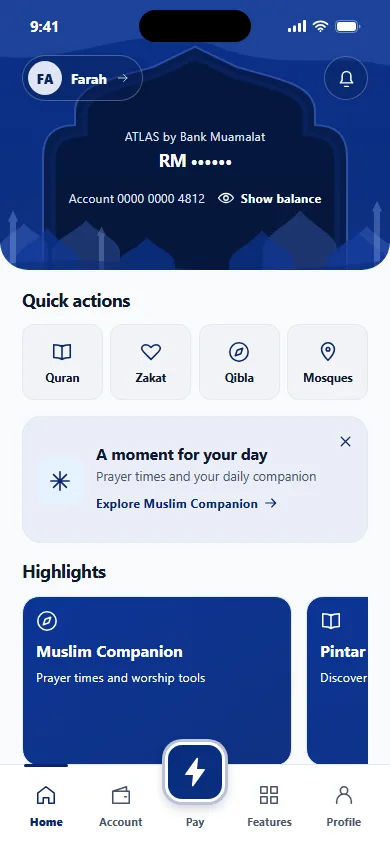
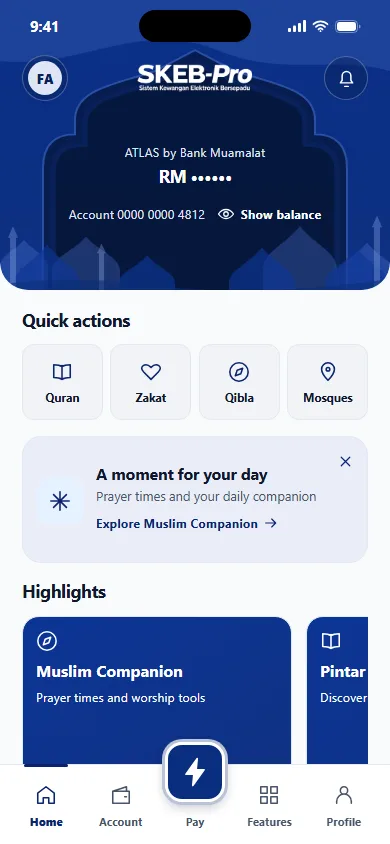
Round4 - mainpage polish, prodile improve

diff --git a/src/App.css b/src/App.css
@@ -1192,7 +1192,8 @@ label.access-option { min-height: 52px; justify-content: flex-start; }
   box-shadow: 0 12px 30px #081d4e33;
 }
 .password-signin input { min-height: 52px; background: #f3f6fc; }
-.password-forgot { align-self: flex-end; min-height: 44px; margin-top: -10px; }
+.password-links { display: flex; align-items: center; justify-content: space-between; gap: 12px; margin-top: -10px; }
+.password-forgot { min-height: 44px; }
 .password-demo {
   display: grid;
   gap: 7px;
@@ -1205,7 +1206,7 @@ label.access-option { min-height: 52px; justify-content: flex-start; }
 .password-demo dl { display: grid; grid-template-columns: auto minmax(0,1fr); gap: 4px 12px; font-size: .78rem; }
 .password-demo dt { color: var(--muted); }
 .password-demo dd { font-weight: 650; overflow-wrap: anywhere; }
-.password-sample { justify-self: start; min-height: 44px; }
+.password-sample { min-height: 44px; }
 .password-signin .access-signin-link { padding-top: 4px; border-top: 1px solid var(--line); }
 .password-signin .registration-form-card .primary { margin-top: 0; }
 .password-signin .registration-form-card .primary:active:not(:disabled) { background: #092055; }
@@ -1519,9 +1520,20 @@ label.access-option { min-height: 52px; justify-content: flex-start; }
   color: #092159;
   outline: 0;
 }
+.home-logo {
+  position: absolute;
+  left: 50%;
+  top: 50%;
+  height: 28px;
+  width: auto;
+  transform: translate(-50%, -50%);
+  filter: brightness(0) invert(1);
+  pointer-events: none;
+}
 .home-profile-name { font-weight: 750; }
 .home-profile > svg { opacity: .78; }
-.home-toolbar.compact .home-profile { border-radius: 50%; padding: 4px; min-width: 46px; justify-content: center; }
+.home-toolbar:not(.compact) .home-profile > svg { display: none; }
+.home-toolbar .home-profile { border-radius: 50%; padding: 4px; min-width: 46px; justify-content: center; }
 .home-notifications {
   border-radius: 50%;
   border: 1px solid #ffffff45;
@@ -1585,8 +1597,8 @@ label.access-option { min-height: 52px; justify-content: flex-start; }
 .home-update-copy p { font-size: .82rem; color: white; }
 @media (max-width: 350px) { .home-toolbar { padding-inline: 15px; } }
 
-.app[data-screen="home"] .hero { min-height: calc(270px + env(safe-area-inset-top)); }
-.app[data-screen="home"] .hero-content { margin-top: 14px; }
+.app[data-screen="home"] .hero { min-height: calc(290px + env(safe-area-inset-top)); }
+.app[data-screen="home"] .hero-content { margin-top: 30px; }
 .home-quick { gap: 12px; }
 .home-quick .quick-actions {
   gap: clamp(6px, 2vw, 12px);
@@ -2198,3 +2210,30 @@ label.access-option { min-height: 52px; justify-content: flex-start; }
 .insight-detail-category-amount { text-align: end; font-variant-numeric: tabular-nums; }
 .eskeb-panel { justify-items: center; text-align: center; }
 .eskeb-logo { display: block; width: min(230px, 80%); height: auto; margin-bottom: 4px; }
+
+/* Profile: SKEB-Pro navy header band behind the status bar, title and account card. */
+.app[data-screen="profile"] { --profile-band: linear-gradient(90deg,#0a2e81,#0f3181); }
+.app[data-screen="profile"] .status-spacer { visibility: visible; background: var(--profile-band); color: transparent; }
+.app[data-screen="profile"] > .screen-status.status-fixed { color: #fff; }
+.app[data-screen="profile"][data-scrolled] > .screen-status.status-fixed { background: #0a2e81; }
+.app[data-screen="profile"] .page-header.hub { background: var(--profile-band); color: #fff; padding-bottom: 6px; }
+.app[data-screen="profile"] main { padding-top: 0; }
+.app[data-screen="profile"] .profile-menu .profile-card {
+  margin: 0 -21px 0;
+  border-radius: 0;
+  padding: 8px 21px 38px;
+  position: relative;
+  background: var(--profile-band);
+  color: #fff;
+}
+.app[data-screen="profile"] .profile-menu .profile-card::after {
+  content: "";
+  position: absolute;
+  left: 0; right: 0; bottom: -1px;
+  height: 26px;
+  background: var(--bg);
+  border-radius: 26px 26px 0 0;
+}
+.app[data-screen="profile"] .profile-card p { color: #c9d6f5; }
+.app[data-screen="profile"] .profile-card .avatar,
+.app.dark[data-screen="profile"] .profile-card .avatar { background: #dee5f6; color: #092159; }

diff --git a/src/AccessFlow.jsx b/src/AccessFlow.jsx
@@ -638,20 +638,15 @@ function PasswordStep({mode,username:initialUsername='',stored,locked,logo,onBac
          <button type="button" className="icon-button" aria-label={visible?'Hide password':'Show password'} aria-controls="masrif-password" onClick={()=>setVisible(value=>!value)}><Icon name={visible?'eyeOff':'eye'} size={20}/></button>
        </div>
      </div>
-     {onForgot&&<button type="button" className="text-button password-forgot" onClick={onForgot}>Forgot password?</button>}
+     {((signin&&!stored)||onForgot)&&<div className="password-links">
+       {signin&&!stored?<button type="button" className="text-button password-sample" onClick={()=>{setUsername(sampleCredentials.username);setPassword(sampleCredentials.password);setError('')}}>Use sample credentials</button>:<span/>}
+       {onForgot&&<button type="button" className="text-button password-forgot" onClick={onForgot}>Forgot password?</button>}
+     </div>}
      {!signin&&<><small>Use at least 15 characters.</small>
        <label>Confirm password<input type="password" autoComplete="new-password" maxLength={128} required
          value={confirmation} onChange={event=>{setConfirmation(event.target.value);setError('')}}/></label></>}
      {locked&&<p className="notice passcode-error" role="alert">Your demo account is locked. Reset your password to continue.</p>}
      {error&&<p className="notice passcode-error" role="alert">{error}</p>}
-     {signin&&!stored&&<section className="password-demo" aria-label="Demo sign-in details">
-       <h2>Demo account</h2>
-       <dl>
-         <dt>Username</dt><dd>{sampleCredentials.username}</dd>
-         <dt>Password</dt><dd>{sampleCredentials.password}</dd>
-       </dl>
-       <button type="button" className="text-button password-sample" onClick={()=>{setUsername(sampleCredentials.username);setPassword(sampleCredentials.password);setError('')}}>Use sample credentials</button>
-     </section>}
      {signin&&<Button type="submit" disabled={busy||locked}>{busy?'Please wait…':submitLabel}</Button>}
      {onRegister&&<RegisterPrompt onRegister={onRegister}/>}
    </form>

diff --git a/src/App.jsx b/src/App.jsx
@@ -298,8 +298,8 @@ export default function App({preview=false}) {
       <header className={'hero-top home-toolbar'+(compactHeader?' compact':'')} aria-label="Home shortcuts">
         <button className="home-profile" aria-label={firstName+", open profile"} onClick={()=>go('/profile')}>
           <span className="avatar" aria-hidden="true">{nameInitials(profileName)}</span>
-          {!compactHeader&&<><span className="home-profile-name">{firstName}</span><Icon name="arrow" size={14}/></>}
         </button>
+        <img className="home-logo" src="/brand/logo-light.png" width="116" height="28" alt="SKEB-Pro"/>
         <button className="icon-button home-notifications" aria-label="Notifications" onClick={()=>go('/inbox')}><Icon name="bell" size={21}/></button>
       </header>
       <div className="hero">
